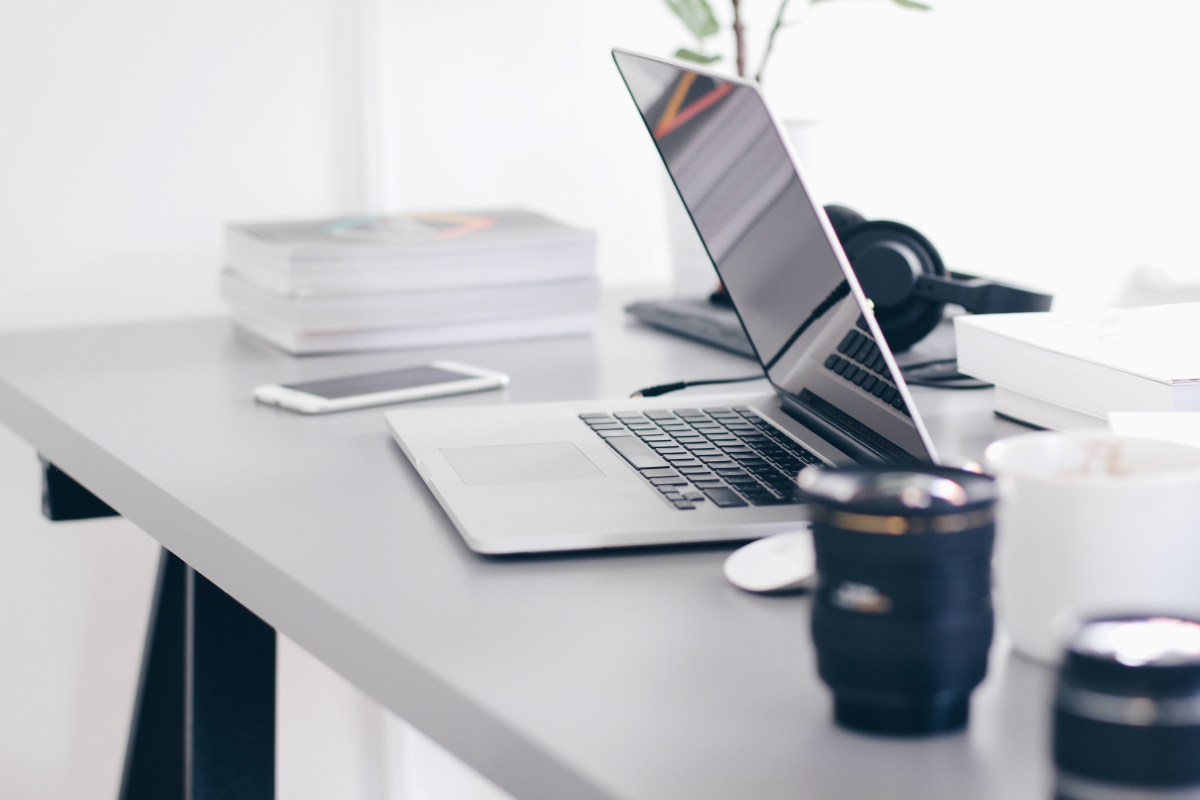
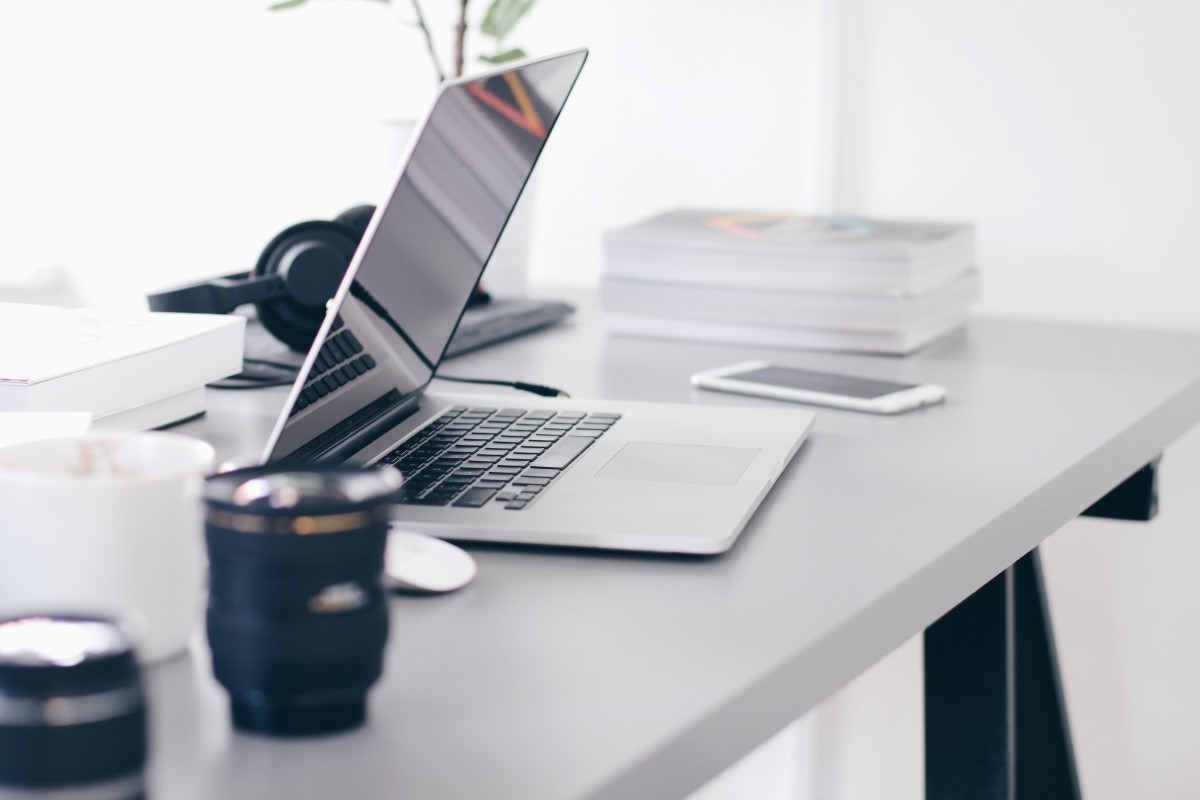
page 3

diff --git a/my_portfolio/styles/styles.css b/my_portfolio/styles/styles.css
@@ -278,8 +278,126 @@ h2{
 }
 
 /*PAGE 3*/
-
-
+#contactus-background {
+    height: 500px;
+    background-color: #CCD5AE;
+    margin-top: 100px;
+    grid-column: 1/11;
+    grid-row: 1/2;
+}
+.contactus-img{
+    width: 350px;
+    box-shadow: 5px 5px 10px black;
+    border: 5px solid #427176;
+    margin-top: 125px;
+    margin-left: 150px;
+    margin-right: 50px;
+    grid-column: 1/5;
+    grid-row: 1/2;
+}
+.msg{
+    text-align: center;
+    margin-top: 175px;
+    grid-column: 6/10;
+    grid-row: 1/2;
+    color: black;
+    margin-left: -80px ;
+    margin-right: 100px;
+}
+.msg h2{
+    text-align: center;
+    font-family: "iceland";
+    font-size: 1.5em;
+}
+.msg p{
+    font-family: "nunito";
+}
+.msg-contact{
+    grid-column: 6/9 ;
+    grid-row: 2/3;
+    margin-top: 150px;
+}
+.contactus2{
+    width: 900px;
+    box-shadow: 5px 5px 10px black;
+    border: 5px solid #427176;
+    grid-column: 2/7;
+    grid-row: 2/4;
+    margin-top: 200px;
+    z-index: -1;
+}
+.background2 {
+    height: 300px;
+    background-color: #CCD5AE;
+    margin-top: 100px;
+    grid-column: 6/9;
+    grid-row: 3/4;
+    border-radius: 10%;
+    box-shadow: 5px 5px 10px black;
+    border: 5px solid #427176;
+    margin-left: 40px;
+}
+.address:hover{
+    transform: scale(1.1);
+}
+.address{
+    text-align: center;
+    color: black;
+    grid-column: 6/9;
+    grid-row: 3/4;
+    margin-left: 40px;
+    margin-top: 150px;
+}
+form {
+    margin: 0 auto;
+    width: 400px;
+    padding: 1em;
+    border: 1px solid #427176;
+    border-radius: 1em;
+    background-color: #427176;
+}  
+ul {
+    list-style: none;
+    padding: 0;
+    margin: 0;
+}  
+form li + li {
+    margin-top: 1em;
+}  
+label {
+    display: inline-block;
+    width: 90px;
+    text-align: right;
+    color: #E9EDC9;
+}  
+input,textarea {
+    font: 1em sans-serif;
+    width: 300px;
+    box-sizing: border-box; 
+    border: 1px solid #427176;
+}
+input:focus, textarea:focus {
+    border-color: #E9EDC9;
+} 
+textarea {
+    vertical-align: top;
+    height: 5em;
+}
+.button {
+    padding-left: 90px; 
+}
+button {
+    margin-left: 0.5em;
+}
+#feedback {
+    background-color: #E9EDC9;
+    position: absolute;
+    top: 0;
+    left: 0;
+    right: 0;
+    padding: .5em;
+    display: none;
+}
  /*RESPONSIVE*/
 @media screen and (max-width: 900px) {
     #hero, .home-grid {

diff --git a/my_portfolio/contactus.html b/my_portfolio/contactus.html
@@ -22,7 +22,7 @@
         </header>
         <div id="hero">
             <div id="hero-box">
-                <img id="hero-img" src="images/ContactUs2.jpg" alt="table with material things">
+                <img id="hero-img" src="images/HomePage2.jpg" alt="table with material things">
             </div>
             <section id="hero-msg">
                 <h1 class="home-title">Web Programming</h1>
@@ -30,8 +30,8 @@
             </section>
         </div>
         <main class="home-grid">
-            <div id="background-contactus"></div>
-            <img class="contactus-img" src="images/ContactUs1.jpg" >
+            <div id="contactus-background"></div>
+            <img class="contactus-img" src="images/ContactUs1.1.jpg" >
             <section class="msg">
                 <h2>Contact Us</h2>
                 <p>It is simple to get in touch with our team, just schedule 
@@ -39,11 +39,11 @@
                      know you and your business better, and together we can 
                      walk the best path for building or improving your website. 
                      You can also send your questions to our team in our email or 
-                     follow us on our social networks and see our work there. 
+                     follow us on our social midias and see our work there. 
                      It is very important for us to get to know you by delivering 
                      a personalized and exclusive job for you.</p>
             </section>
-            <section>
+            <section class="msg-contact">
               <div id="feedback"></div>
               <form action="/my-handling-form-page" method="post">
                  <ul>
@@ -65,8 +65,9 @@
                  </ul>
               </form>
             </section>
-            <section>
-                <div class="background2"></div>
+            <img class="contactus2" src="images/ContactUs2.jpg" >
+            <div class="background2"></div>
+            <section class="address">
                 <h2>Visit Our Office</h2>
                 <p>889, Papa João Vinte e Três Street</p>
                 <p>Campina Grande - PB - Brazil</p>
